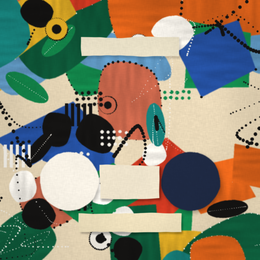
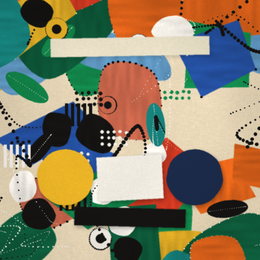
Esferas: datos del Collage como piezas del propio collage
- Círculo azafrán con la temperatura grande y la lluvia
- Tira blanca torcida con los pasos grandes y barra de progreso bermellón
- Luna en su círculo azul noche; amanecer y atardecer en cinta negra
- Batería junto a la fecha en la cinta superior

Claude-Session: https://claude.ai/code/session_0148qsZtKrfrxGzekTrvD4BA

diff --git a/Esferas/store/generador/render.html b/Esferas/store/generador/render.html
@@ -151,19 +151,27 @@ function reticula(d){
 // =================== COLLAGE ===================
 function collage(d){
   art(['collage', 'collage2', 'collage3'][d.variant || 0]);                             // un collage distinto cada día
-  const ink = '#24211E', soft = '#6E6457';
-  text(P(195), P(64), d.date, F.label, ink);                                           // cinta adhesiva: fecha
+  const ink = '#1C1A17';
+  // cinta de la fecha: fecha · batería
+  const dw = textW(d.date, F.label), bw2 = P(14) + P(5) + textW(d.battery + '%', F.small), gapD = P(16);
+  const dx0 = P(195) - (dw + gapD + bw2) / 2;
+  text(dx0, P(64), d.date, F.label, ink, 'l');
+  row(dx0 + dw + gapD + bw2 / 2, P(64), [['battery', d.battery + '%']], '#5A4E40', '#5A4E40', '#EFE6CC', 14, F.small);
   glyphTime(P(195), P(104), d.time, 'co', -2, true);                                   // papeles recortados que saltan
-  row(P(104), P(258), [[d.cond, d.temp + '°']], ink, soft, '#F5EFE3', 18, F.small);       // círculo crema: tiempo
-  row(P(104), P(284), [['drop', d.precip + '%']], soft, soft, '#F5EFE3', 14, F.small);
-  const mp = IMG['moon' + d.moonIdx];                                                  // círculo azul noche: luna
-  dc.drawImage(mp, P(286) - mp.width / 2, P(264) - mp.height / 2);
-  text(P(286), P(284), Math.round(d.moonIllum * 100) + '%', F.mini, '#E9E2D2');
-  row(P(195), P(256), [['steps', fmtSteps(d.steps)]], ink, soft, '#F2E7CF', 14, F.small);   // tira: pasos y batería
-  const bx = P(162), bw = P(66), by = P(276), f = Math.min(1, d.steps / d.goal);
-  rect(bx, by, bw, Math.max(1, P(2)), '#D9CCB2'); rect(bx, by, bw * f, Math.max(1, P(2)), '#D7372A');
-  row(P(195), P(282), [['battery', d.battery + '%']], soft, soft, '#F2E7CF', 14, F.small);
-  row(P(195), P(326), [['sunrise', d.sunrise], ['sunset', d.sunset]], ink, soft, '#EBDDBA', 14, F.small);  // cinta: sol
+  // círculo azafrán: tiempo
+  row(P(98), P(250), [[d.cond, d.temp + '°']], ink, ink, '#E8B227', 22);
+  row(P(98), P(282), [['drop', d.precip + '%']], '#4A3810', '#4A3810', '#E8B227', 14, F.small);
+  // tira blanca: pasos y su progreso
+  icon('steps', P(186), P(240), P(18), '#5A4E40');
+  text(P(195), P(260), fmtSteps(d.steps), F.data, ink);
+  const bx = P(160), bw = P(70), by = P(288), f = Math.min(1, d.steps / d.goal);
+  rect(bx, by, bw, Math.max(1, P(2.5)), '#D9CEB8'); rect(bx, by, bw * f, Math.max(1, P(2.5)), '#D23A22');
+  // círculo azul noche: luna
+  const mp = IMG['moon' + d.moonIdx];
+  dc.drawImage(mp, P(292) - mp.width / 2, P(256) - mp.height / 2);
+  text(P(292), P(280), Math.round(d.moonIllum * 100) + '%', F.small, '#EDE6D6');
+  // cinta negra: amanecer y atardecer
+  row(P(195), P(320), [['sunrise', d.sunrise], ['sunset', d.sunset]], '#F3EEE4', '#E8B227', '#151413', 14, F.small);
 }
 
 // =================== CIELO PINTADO ===================

diff --git a/Esferas/tools/paint.py b/Esferas/tools/paint.py
@@ -284,16 +284,27 @@ PALETTE = ["#D23A22", "#13894C", "#2550A0", "#5D93BC", "#C8664B", "#C8932B", "#E
 LABEL = (56, 88, 334, 294)
 
 
-COLLAGE_HOLDERS = {   # soportes de papel para los datos (diseño a 390)
-    "temp": ("circle", 104, 272, 44, "#F5EFE3"),
-    "moon": ("circle", 286, 272, 44, "#1F2A44"),
-    "steps": ("rect", 150, 248, 240, 298, "#F2E7CF"),
-    "sun": ("rect", 118, 320, 272, 348, "#EBDDBA"),
-    "date": ("rect", 122, 56, 268, 84, "#EFE6CC"),
+COLLAGE_HOLDERS = {   # piezas de papel para los datos (diseño a 390): tipo, geometría, color, giro
+    "temp": ("circle", 98, 266, 42, "#E8B227", 0),
+    "moon": ("circle", 292, 266, 42, "#1C2B4A", 0),
+    "steps": ("rect", 146, 234, 244, 300, "#F3EEE4", -3.0),
+    "sun": ("rect", 112, 312, 278, 340, "#151413", 1.5),
+    "date": ("rect", 76, 56, 314, 84, "#EFE6CC", -1.0),
 }
 
 
-def paper_piece(img, kind, geom, color, seed, shadow=0.32):
+def paper_piece(img, kind, geom, color, seed, shadow=0.32, angle=0.0):
+    if kind == "rect" and angle:
+        x0, y0, x1, y1 = geom
+        cx, cy, a = (x0 + x1) / 2, (y0 + y1) / 2, np.radians(angle)
+        corners = [(x0, y0), (x1, y0), (x1, y1), (x0, y1)]
+        pts = [(cx + (x - cx) * np.cos(a) - (y - cy) * np.sin(a), cy + (x - cx) * np.sin(a) + (y - cy) * np.cos(a))
+               for x, y in corners]
+        sh = poly_mask([(x + 2, y + 3) for x, y in pts], blur=3)
+        m = poly_mask(pts, blur=0.6)
+        img = img * (1 - shadow * sh)[..., None]
+        paper = mottle(linen(solid(color), 0.05, seed + 2), 0.05, seed + 3, 3)
+        return over(img, paper, m)
     if kind == "circle":
         cx, cy, r = geom
         pts = [(cx + np.cos(q) * r * (1 + 0.015 * np.sin(q * 7 + seed)), cy + np.sin(q) * r) for q in np.linspace(0, 2 * np.pi, 72)[:-1]]
@@ -404,7 +415,7 @@ def bg_collage(seed=91):
     for i, (name, spec) in enumerate(COLLAGE_HOLDERS.items()):
         kind = spec[0]
         geom = spec[1:4] if kind == "circle" else spec[1:5]
-        img = paper_piece(img, kind, geom, spec[-1], 700 + i * 10, 0.30 if name != "date" else 0.15)
+        img = paper_piece(img, kind, geom, spec[-2], 700 + i * 10, 0.30 if name != "date" else 0.15, spec[-1])
     return to_image(vignette(img, 0.06))
 
 
